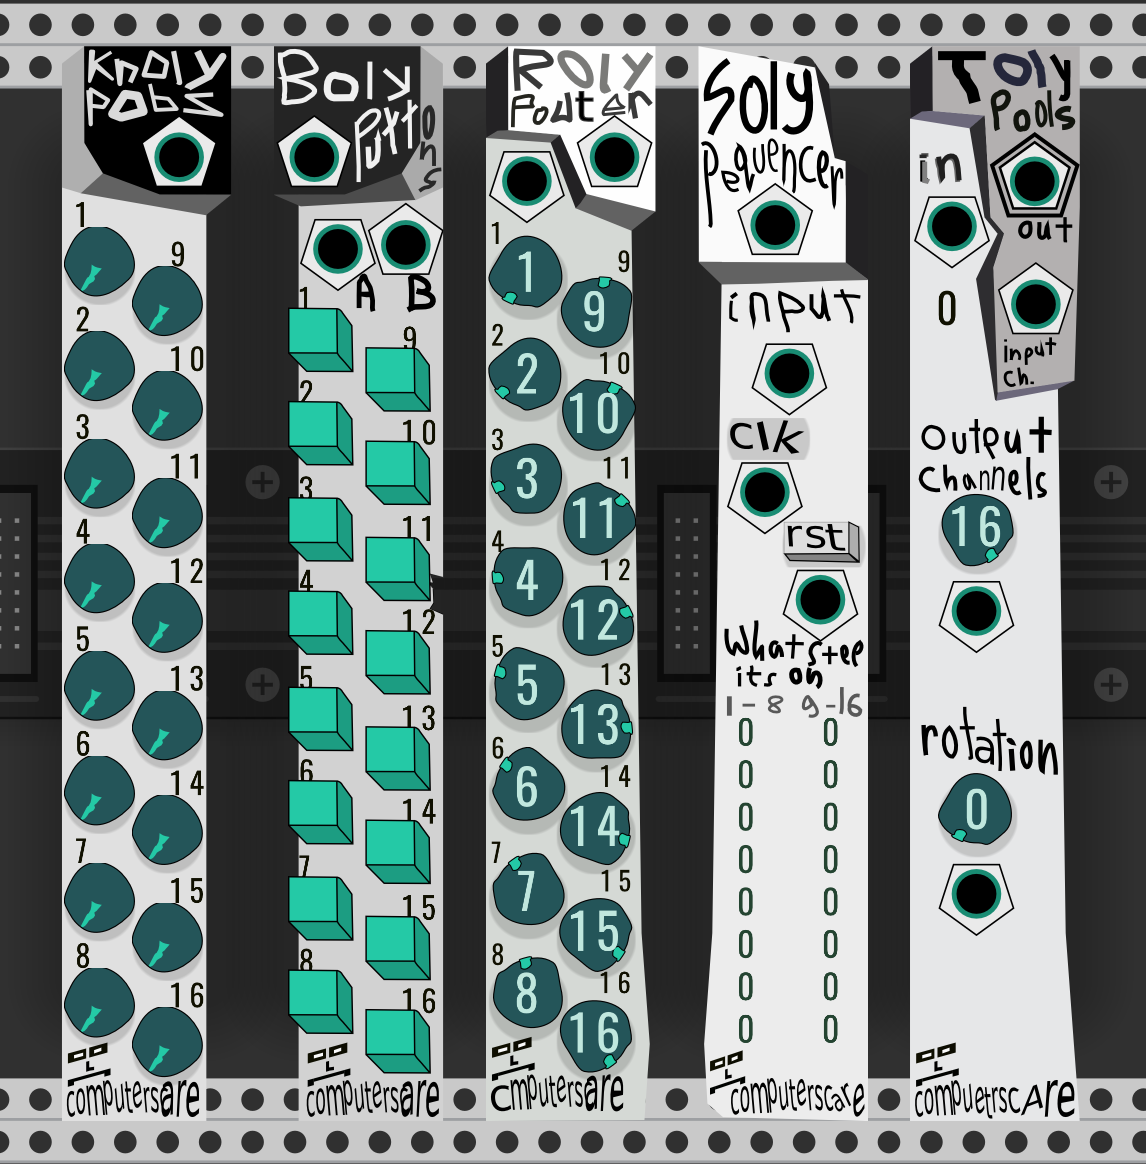
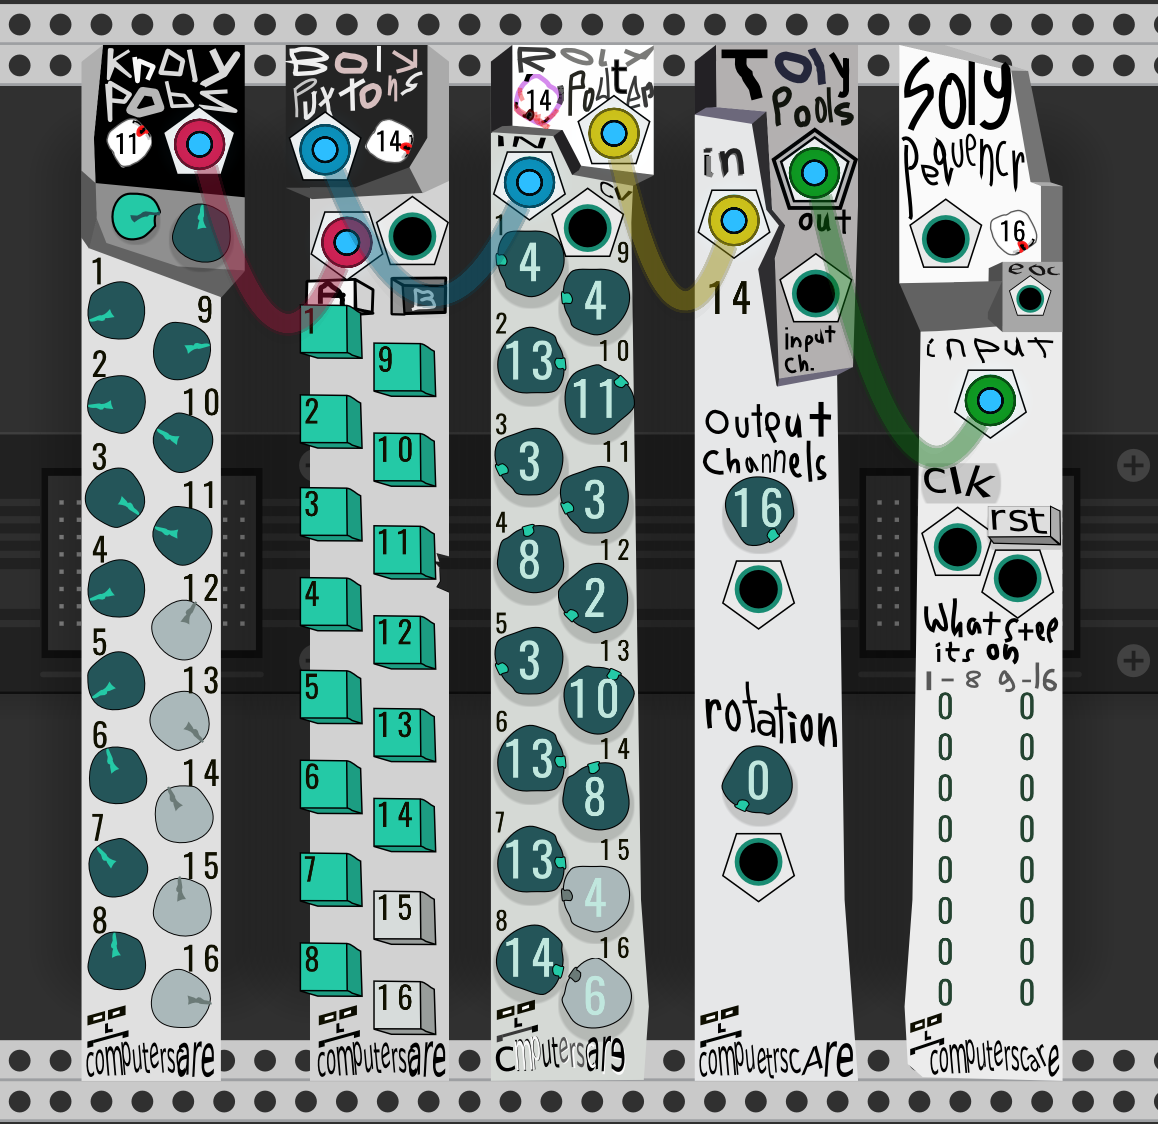
Poly utils docs

diff --git a/doc/poly-utilities.md b/doc/poly-utilities.md
@@ -1,15 +1,14 @@
 # Computerscare Modules Polyphonic Utilities
 <img src="https://github.com/freddyz/computerscare-vcv-modules/blob/master/doc/computerscare-poly-utilities.png" width="600" alt="Computerscare Polyphonic Utilities" />
 
-
 ## Knoly Pobs
 
-16 knobs, polyphonic output, range: 0 - 10 volts.
+16 knobs, polyphonic output, Default range: 0 - 10 volts.  Global scale & offset knobs to adjust all output channel values simultaniously.
 
 
 ## Boly Puttons
 
-16 latch buttons.  On/off voltages selectable via right-click menu.  Plugging in a polyphonic signal to the A/B inputs will override the selected on/off values and use the CV signals instead.  If a monophonic signal is plugged into the "A" input, its voltage will be used for ALL "off/up" buttons.  If an n-channel signal is plugged into the "A" input, the "off/up" button voltages will match the "A" channels up to n, and then re-start at "A" channel 1.  Behavior is the same for the "B" input.  Note that this behavior is different than the recommended method of handling polyphonic signals.
+16 latch buttons.  On/off voltages selectable via right-click menu.  Plugging in a polyphonic signal to the A/B inputs will override the selected on/off values and use the CV signals instead.  If a monophonic signal is plugged into the "A" input, its voltage will be used for ALL "off/up" buttons.  Number of output channels will be the maximum of: number of channels from "A" input, number of channels from "B", input, or the manual poly channels knob setting
 
 
 ## Roly Pouter
@@ -19,7 +18,7 @@ Re-route the channels of a polyphonic signal.  If you select an input channel th
 
 ## Soly Pequencer
 
-Sequentially output the individual channel voltages of a polyphonic signal.  Connecting a polyphonic signal to the clock input allows for multiple independent sequences.  Polyphonic reset channels beyond the number of channels of the clock signal are ignored.  I think that the clock/reset buttons will apply to all channels.
+Sequentially output the individual channel voltages of a polyphonic signal.  Connecting a polyphonic signal to the clock input allows for multiple independent sequences.  Polyphonic reset channels beyond the number of channels of the clock signal are ignored.  The clock/reset buttons apply to all channels.
 
 
 ## Toly Pools
@@ -29,3 +28,6 @@ Sequentially output the individual channel voltages of a polyphonic signal.  Con
 * Knob and CV for setting output channel count (0 - 10 volts linearly mapped to 1-16 output channels)
 * Knob and CV for rotating the polyphonic signal (0 - 10 volts sets rotation of 0-15 channels.  For example: rotation of "1" will move input channel 2 -> output channel 1, input channel 3->output channel 2, ...  input channel 16 -> output channel 1)
 
+
+### Poly Channels Knob
+Most Poly Utilities have the small poly channels knob which sets how many poly channels the output signal has.  Puttons, Pouter, and Pequencer all support "automatic" mode for this knob when turned all the way to left.  When in this position, the poly output channels will be set to equal the poly input channels.
